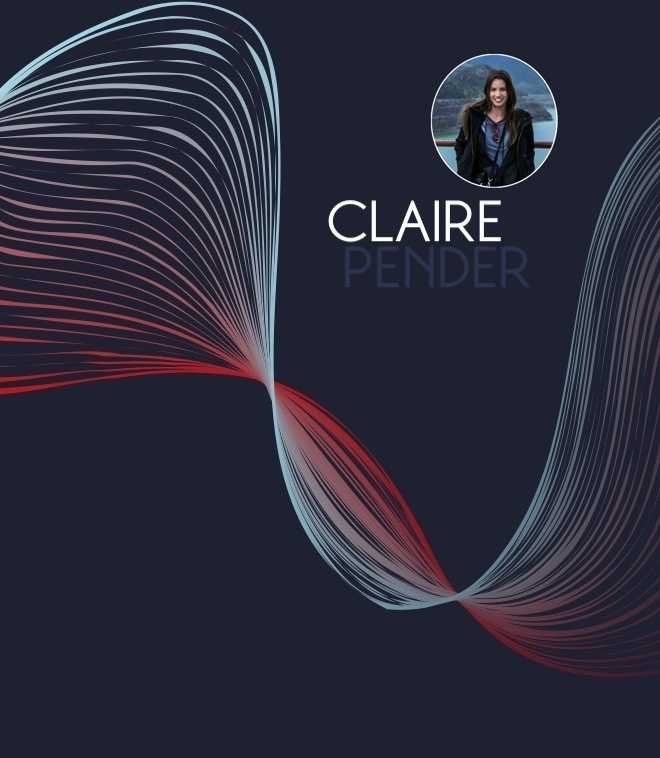
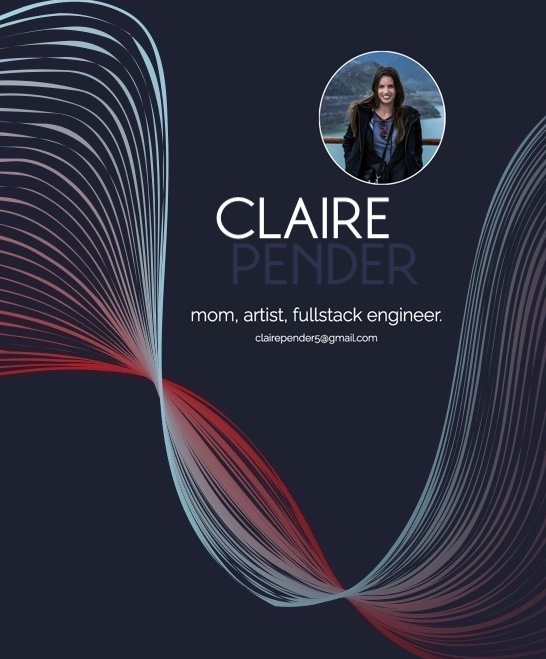
mobile touches

diff --git a/public/style.css b/public/style.css
@@ -286,12 +286,6 @@ body {
     }
 
     .intro-sub-text{
-        font-family: 'Raleway', sans-serif;
-        font-weight: normal;
-        font-style: normal;
-        color:white;
-        position: fixed;
-        top: 65vh;
-        left: 35vw;
+        display:none;
     }
   }
